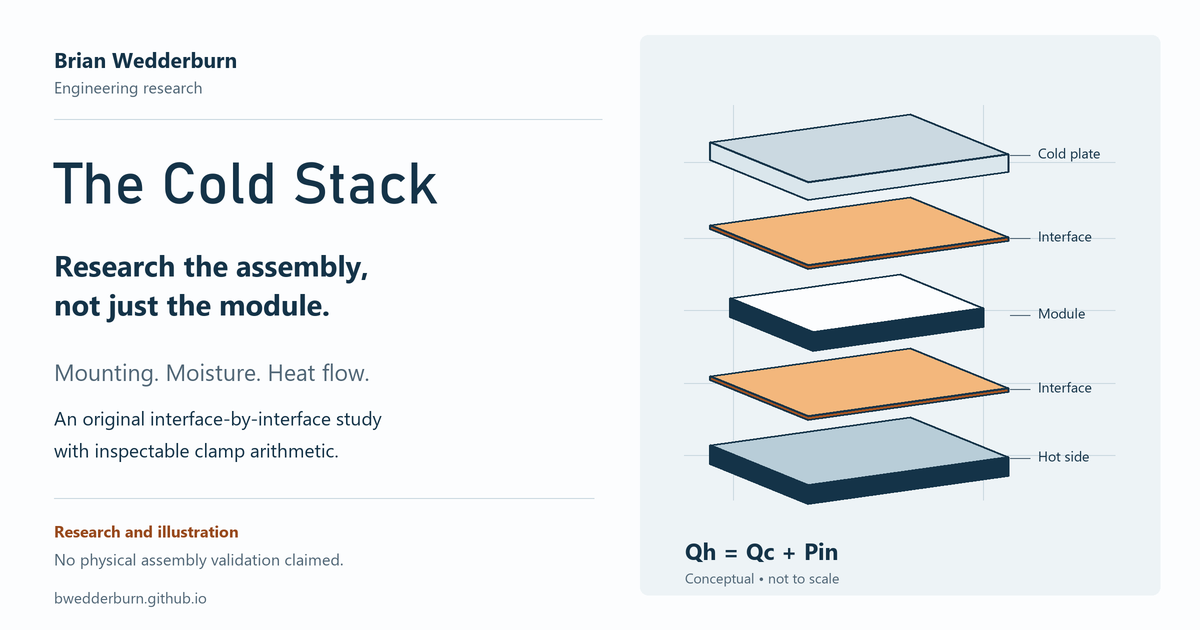
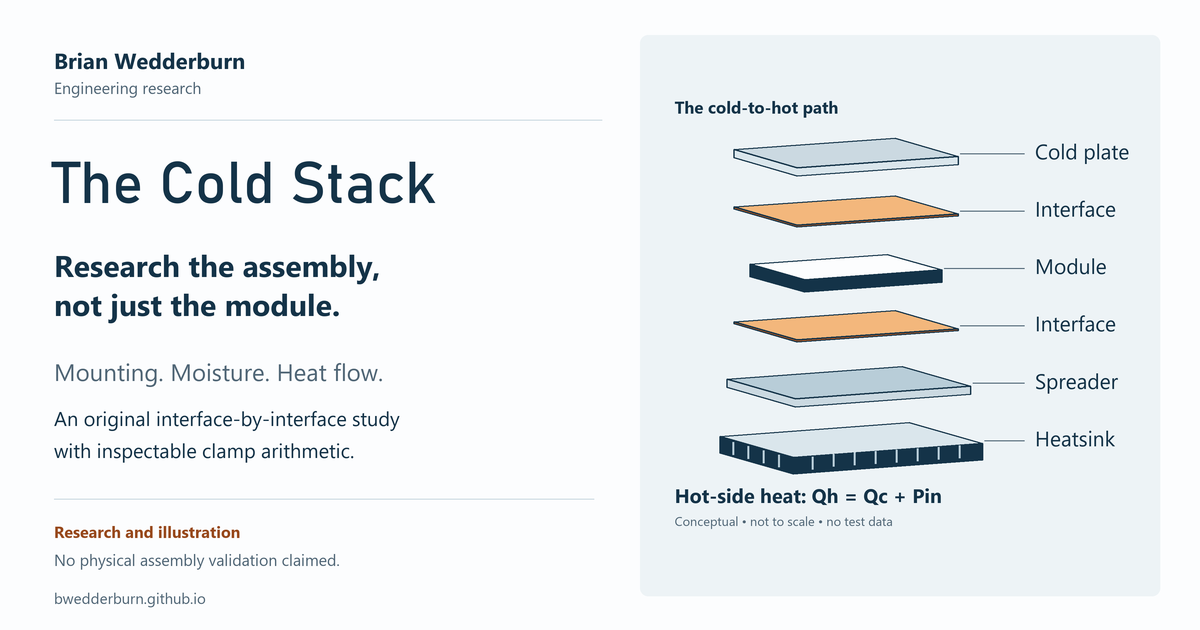
Correct Cold Stack layer geometry and paint order

diff --git a/projects/cold-stack/index.html b/projects/cold-stack/index.html
@@ -33,7 +33,7 @@
     <div class="wrap"><nav class="breadcrumbs" aria-label="Breadcrumb"><a href="../../">Portfolio</a><span aria-hidden="true">/</span><span aria-current="page">The Cold Stack</span></nav></div>
     <section class="case-hero cold-hero wrap" aria-labelledby="case-title">
       <div><p class="project-kind">The Cold Stack / Engineering research</p><h1 id="case-title">Research the assembly, not just the module.</h1><p class="lead">A Peltier module is one part of a thermal system. I’m studying the interfaces around it: how to clamp it evenly, move heat out, and control moisture without assuming a seal solves every problem.</p><div class="actions"><a class="button primary" href="#assembly">Explore the stack</a><a class="text-link" href="#sources">Read the sources</a></div><p class="research-status">Research and illustrative calculations. No assembly built or physically validated for this study.</p></div>
-      <figure class="case-figure"><picture><source media="(max-width: 1000px)" srcset="../../assets/cold-stack-mobile.svg" width="360" height="640"><img src="../../assets/cold-stack.svg" alt="Original conceptual exploded Peltier assembly showing a cold plate, two thin interfaces, a module, and a hot-side spreader; hot-side heat includes the cold load and electrical input." width="760" height="550"></picture><figcaption>Follow the heat through every interface. This drawing is conceptual and not to scale.</figcaption></figure>
+      <figure class="case-figure"><picture><source media="(max-width: 1000px)" srcset="../../assets/cold-stack-mobile.svg" width="360" height="640"><img src="../../assets/cold-stack.svg" alt="Original conceptual Peltier assembly, from top to bottom: cold plate, interface, module, interface, spreader, heatsink; hot-side heat includes the cold load and electrical input." width="760" height="640"></picture><figcaption>Follow the heat through every interface. This drawing is conceptual and not to scale.</figcaption></figure>
     </section>
     <div class="case-facts wrap"><div><span>Focus</span><strong>Mounting, moisture, and heat flow</strong></div><div><span>Method</span><strong>Source review / dimensional reasoning</strong></div><div><span>Evidence boundary</span><strong>Research, not hardware acceptance</strong></div></div>
 
@@ -41,15 +41,32 @@
 
     <section id="assembly" class="research-intro wrap" aria-labelledby="assembly-title"><p class="section-context">An interface-by-interface view</p><h2 id="assembly-title">Open the stack to see its responsibilities.</h2><p>Move the layers apart to inspect the thermal path. The drawing separates functions; it does not specify dimensions, material selection, fastener locations, or an approved assembly.</p>
       <div class="stack-explorer" data-stack-explorer>
-        <figure class="stack-drawing"><svg class="stack-desktop" data-stack-drawing data-stack-min-gap="34" viewBox="0 0 650 580" role="img" aria-labelledby="stack-title stack-desc"><title id="stack-title">Conceptual exploded thermoelectric stack</title><desc id="stack-desc">Six layers, from top to bottom: cold plate, upper thermal interface, thermoelectric module, lower thermal interface, hot-side spreader, and heat sink. A spacing control changes only the drawing.</desc><g fill="none" stroke="#cbd9e1" stroke-width="1"><path d="M30 45h590M30 535h590M80 55v465M445 55v465"/><path d="M180 55v465M360 55v465" stroke-dasharray="4 7"/></g><g font-family="Segoe UI,Arial,sans-serif" font-size="23" fill="#143348">
-          <g data-stack-layer transform="translate(0 85)"><path d="m120 0 230-30 90 34-230 30Z" fill="#cbd9e1" stroke="#143348" stroke-width="2"/><path d="m120 0 90 34 230-30v15l-230 30-90-34Z" fill="#dae6ec" stroke="#143348" stroke-width="2"/><path d="M443 8h28" stroke="#506676"/><text x="483" y="13">Cold plate</text></g>
-          <g data-stack-layer transform="translate(0 155)"><path d="m120 0 230-30 90 34-230 30Z" fill="#f3b77c" stroke="#97481b" stroke-width="2"/><path d="M443 8h28" stroke="#506676"/><text x="483" y="13">Interface</text></g>
-          <g data-stack-layer transform="translate(0 225)"><path d="m143 0 196-25 78 30-196 25Z" fill="#fcfdfe" stroke="#143348" stroke-width="2"/><path d="m143 0 78 30 196-25v20l-196 25-78-30Z" fill="#143348"/><path d="M420 8h51" stroke="#506676"/><text x="483" y="13">Module</text></g>
-          <g data-stack-layer transform="translate(0 295)"><path d="m120 0 230-30 90 34-230 30Z" fill="#f3b77c" stroke="#97481b" stroke-width="2"/><path d="M443 8h28" stroke="#506676"/><text x="483" y="13">Interface</text></g>
-          <g data-stack-layer transform="translate(0 365)"><path d="m110 0 250-33 98 37-250 33Z" fill="#b8cdd8" stroke="#143348" stroke-width="2"/><path d="m110 0 98 37 250-33v15l-250 33-98-37Z" fill="#cbd9e1" stroke="#143348" stroke-width="2"/><path d="M460 8h11" stroke="#506676"/><text x="483" y="13">Spreader</text></g>
-          <g data-stack-layer transform="translate(0 435)"><path d="m100 0 270-35 105 40-270 35Z" fill="#dae6ec" stroke="#143348" stroke-width="2"/><path d="m100 0 105 40 270-35v29l-270 35-105-40Z" fill="#143348"/><g stroke="#b8cdd8" stroke-width="3"><path d="m119 12 2 24M140 20l2 24M162 28l2 24M184 36l2 24M232 36v28M262 32v28M292 28v28M322 24v28M352 20v28M382 16v28M412 12v28M442 8v28"/></g><path d="M477 8h6" stroke="#506676"/><text x="493" y="13">Heat sink</text></g>
-        </g></svg><svg class="stack-mobile" data-stack-drawing data-stack-min-gap="34" viewBox="0 0 360 580" role="img" aria-labelledby="stack-mobile-title stack-mobile-desc"><title id="stack-mobile-title">Conceptual thermoelectric stack with large labels</title><desc id="stack-mobile-desc">Six layers, from top to bottom: cold plate, upper thermal interface, thermoelectric module, lower thermal interface, hot-side spreader, and heat sink. The separation control moves each layer and its label together; this is not a physical calculation.</desc><g font-family="Segoe UI,Arial,sans-serif" font-size="25" fill="#143348"><g data-stack-layer transform="translate(0 85)"><path d="m18 0 116-16 44 20-116 16Z" fill="#cbd9e1" stroke="#143348" stroke-width="2"/><path d="m18 0 44 20 116-16v18l-116 16-44-20Z" fill="#dae6ec" stroke="#143348" stroke-width="2"/><path d="M181 8h15" stroke="#506676" stroke-width="1.5"/><text x="205" y="15">Cold plate</text></g><g data-stack-layer transform="translate(0 157.4)"><path d="m18 0 116-16 44 20-116 16Z" fill="#f3b77c" stroke="#143348" stroke-width="2"/><path d="m18 0 44 20 116-16v4l-116 16-44-20Z" fill="#a95420" stroke="#143348" stroke-width="2"/><path d="M181 8h15" stroke="#506676" stroke-width="1.5"/><text x="205" y="15">Interface</text></g><g data-stack-layer transform="translate(0 229.8)"><path d="m18 0 116-16 44 20-116 16Z" fill="#fcfdfe" stroke="#143348" stroke-width="2"/><path d="m18 0 44 20 116-16v18l-116 16-44-20Z" fill="#143348" stroke="#143348" stroke-width="2"/><path d="M181 8h15" stroke="#506676" stroke-width="1.5"/><text x="205" y="15">Module</text></g><g data-stack-layer transform="translate(0 302.2)"><path d="m18 0 116-16 44 20-116 16Z" fill="#f3b77c" stroke="#143348" stroke-width="2"/><path d="m18 0 44 20 116-16v4l-116 16-44-20Z" fill="#a95420" stroke="#143348" stroke-width="2"/><path d="M181 8h15" stroke="#506676" stroke-width="1.5"/><text x="205" y="15">Interface</text></g><g data-stack-layer transform="translate(0 374.6)"><path d="m18 0 116-16 44 20-116 16Z" fill="#b8cdd8" stroke="#143348" stroke-width="2"/><path d="m18 0 44 20 116-16v18l-116 16-44-20Z" fill="#dae6ec" stroke="#143348" stroke-width="2"/><path d="M181 8h15" stroke="#506676" stroke-width="1.5"/><text x="205" y="15">Spreader</text></g><g data-stack-layer transform="translate(0 447)"><path d="m18 0 116-16 44 20-116 16Z" fill="#dae6ec" stroke="#143348" stroke-width="2"/><path d="m18 0 44 20 116-16v18l-116 16-44-20Z" fill="#143348" stroke="#143348" stroke-width="2"/><path d="M42 29v17M65 27v19M88 24v19M111 22v19M134 20v19M157 17v19" stroke="#b8cdd8" stroke-width="2"/><path d="M181 8h15" stroke="#506676" stroke-width="1.5"/><text x="205" y="15">Heat sink</text></g></g></svg><figcaption>A visual inspection aid. Layer spacing does not represent a temperature, force, or displacement calculation.</figcaption></figure>
-        <div class="stack-notes"><h3>Separate the jobs.</h3><p>The thermal interfaces need intimate contact. The clamp supplies load. Moisture protection addresses the environment around the cold region. These functions interact, but they are not interchangeable.</p><div class="stack-controls" hidden><label for="stack-separation">Drawing separation <output id="separation-value" for="stack-separation">80%</output></label><input id="stack-separation" type="range" min="0" max="100" value="80" step="1"><div class="stack-control-ends"><span>Compact view</span><span>Exploded view</span></div></div><p class="layer-order">Layers from top to bottom:</p><ol class="layer-key"><li><strong>Cold plate:</strong> connects the load to the module.</li><li><strong>Upper interface:</strong> connects the cold plate and module.</li><li><strong>Module:</strong> moves heat with electrical input.</li><li><strong>Lower interface:</strong> connects the module and spreader.</li><li><strong>Hot-side spreader:</strong> distributes the combined heat.</li><li><strong>Heat sink:</strong> rejects heat to the surroundings.</li></ol></div>
+        <figure class="stack-drawing"><svg class="stack-desktop" data-stack-drawing data-stack-min-gap="64" viewBox="0 0 650 580" role="img" aria-labelledby="stack-title stack-desc"><title id="stack-title">Conceptual six-layer thermoelectric stack</title><desc id="stack-desc">Six layers, from top to bottom: cold plate, upper thermal interface, thermoelectric module, lower thermal interface, hot-side spreader, and heatsink. The shallow viewing angle keeps each layer distinct. This is a conceptual drawing, not to scale.</desc><g fill="none" stroke="#cbd9e1" stroke-width="1"><path d="M30 45h590M30 555h590M80 55v490M445 55v490"/><path d="M180 55v490M360 55v490" stroke-dasharray="4 7"/></g><g font-family="Segoe UI,Arial,sans-serif" font-size="23" fill="#143348">
+<g data-stack-layer="heatsink" data-stack-level="5" transform="translate(0 477)"><path d="m100 0 270-20 105 30-270 20Z" fill="#dae6ec" stroke="#143348" stroke-width="2"/><path d="m100 0 105 30 270-20v24l-270 20-105-30Z" fill="#143348" stroke="#143348" stroke-width="2"/><path d="M119 8v18M140 14v18M162 20v18M184 26v18M232 29v18M262 25v18M292 23v18M322 21v18M352 19v18M382 17v18M412 15v18M442 13v18" fill="none" stroke="#b8cdd8" stroke-width="3"/></g>
+<g data-stack-layer="spreader" data-stack-level="4" transform="translate(0 398.6)"><path d="m110 0 250-18 98 28-250 18Z" fill="#b8cdd8" stroke="#143348" stroke-width="2"/><path d="m110 0 98 28 250-18v12l-250 18-98-28Z" fill="#cbd9e1" stroke="#143348" stroke-width="2"/></g>
+<g data-stack-layer="lower-interface" data-stack-level="3" transform="translate(0 320.2)"><path d="m120 0 230-16 90 26-230 16Z" fill="#f3b77c" stroke="#143348" stroke-width="2"/><path d="m120 0 90 26 230-16v3l-230 16-90-26Z" fill="#a95420" stroke="#143348" stroke-width="2"/></g>
+<g data-stack-layer="module" data-stack-level="2" transform="translate(0 241.8)"><path d="m143 0 196-14 78 22-196 14Z" fill="#fcfdfe" stroke="#143348" stroke-width="2"/><path d="m143 0 78 22 196-14v18l-196 14-78-22Z" fill="#143348" stroke="#143348" stroke-width="2"/></g>
+<g data-stack-layer="upper-interface" data-stack-level="1" transform="translate(0 163.4)"><path d="m120 0 230-16 90 26-230 16Z" fill="#f3b77c" stroke="#143348" stroke-width="2"/><path d="m120 0 90 26 230-16v3l-230 16-90-26Z" fill="#a95420" stroke="#143348" stroke-width="2"/></g>
+<g data-stack-layer="cold-plate" data-stack-level="0" transform="translate(0 85)"><path d="m120 0 230-16 90 26-230 16Z" fill="#cbd9e1" stroke="#143348" stroke-width="2"/><path d="m120 0 90 26 230-16v12l-230 16-90-26Z" fill="#dae6ec" stroke="#143348" stroke-width="2"/></g>
+<g data-stack-label="cold-plate" data-stack-level="0" transform="translate(0 85)"><path d="M443 6H480" fill="none" stroke="#506676" stroke-width="1.5"/><text x="493" y="14">Cold plate</text></g>
+<g data-stack-label="upper-interface" data-stack-level="1" transform="translate(0 163.4)"><path d="M443 6H480" fill="none" stroke="#506676" stroke-width="1.5"/><text x="493" y="14">Interface</text></g>
+<g data-stack-label="module" data-stack-level="2" transform="translate(0 241.8)"><path d="M420 6H480" fill="none" stroke="#506676" stroke-width="1.5"/><text x="493" y="14">Module</text></g>
+<g data-stack-label="lower-interface" data-stack-level="3" transform="translate(0 320.2)"><path d="M443 6H480" fill="none" stroke="#506676" stroke-width="1.5"/><text x="493" y="14">Interface</text></g>
+<g data-stack-label="spreader" data-stack-level="4" transform="translate(0 398.6)"><path d="M461 6H480" fill="none" stroke="#506676" stroke-width="1.5"/><text x="493" y="14">Spreader</text></g>
+<g data-stack-label="heatsink" data-stack-level="5" transform="translate(0 477)"><path d="M478 6H480" fill="none" stroke="#506676" stroke-width="1.5"/><text x="493" y="14">Heatsink</text></g></g></svg><svg class="stack-mobile" data-stack-drawing data-stack-min-gap="46" viewBox="0 0 360 580" role="img" aria-labelledby="stack-mobile-title stack-mobile-desc"><title id="stack-mobile-title">Conceptual six-layer thermoelectric stack</title><desc id="stack-mobile-desc">Six layers, from top to bottom: cold plate, upper thermal interface, thermoelectric module, lower thermal interface, hot-side spreader, and heatsink. The shallow viewing angle keeps each layer distinct. This is a conceptual drawing, not to scale.</desc><g font-family="Segoe UI,Arial,sans-serif" font-size="25" fill="#143348">
+<g data-stack-layer="heatsink" data-stack-level="5" transform="translate(0 459)"><path d="m18 0 116-8 44 12-116 8Z" fill="#dae6ec" stroke="#143348" stroke-width="2"/><path d="m18 0 44 12 116-8v24l-116 8-44-12Z" fill="#143348" stroke="#143348" stroke-width="2"/><path d="M38 8v18M61 14v18M84 12v18M107 10v18M130 8v18M153 6v18" fill="none" stroke="#b8cdd8" stroke-width="2"/></g>
+<g data-stack-layer="spreader" data-stack-level="4" transform="translate(0 384.2)"><path d="m18 0 116-8 44 12-116 8Z" fill="#b8cdd8" stroke="#143348" stroke-width="2"/><path d="m18 0 44 12 116-8v12l-116 8-44-12Z" fill="#cbd9e1" stroke="#143348" stroke-width="2"/></g>
+<g data-stack-layer="lower-interface" data-stack-level="3" transform="translate(0 309.4)"><path d="m18 0 116-8 44 12-116 8Z" fill="#f3b77c" stroke="#143348" stroke-width="2"/><path d="m18 0 44 12 116-8v3l-116 8-44-12Z" fill="#a95420" stroke="#143348" stroke-width="2"/></g>
+<g data-stack-layer="module" data-stack-level="2" transform="translate(0 234.6)"><path d="m18 0 116-8 44 12-116 8Z" fill="#fcfdfe" stroke="#143348" stroke-width="2"/><path d="m18 0 44 12 116-8v16l-116 8-44-12Z" fill="#143348" stroke="#143348" stroke-width="2"/></g>
+<g data-stack-layer="upper-interface" data-stack-level="1" transform="translate(0 159.8)"><path d="m18 0 116-8 44 12-116 8Z" fill="#f3b77c" stroke="#143348" stroke-width="2"/><path d="m18 0 44 12 116-8v3l-116 8-44-12Z" fill="#a95420" stroke="#143348" stroke-width="2"/></g>
+<g data-stack-layer="cold-plate" data-stack-level="0" transform="translate(0 85)"><path d="m18 0 116-8 44 12-116 8Z" fill="#cbd9e1" stroke="#143348" stroke-width="2"/><path d="m18 0 44 12 116-8v10l-116 8-44-12Z" fill="#dae6ec" stroke="#143348" stroke-width="2"/></g>
+<g data-stack-label="cold-plate" data-stack-level="0" transform="translate(0 85)"><path d="M181 6h15" fill="none" stroke="#506676" stroke-width="1.5"/><text x="205" y="14">Cold plate</text></g>
+<g data-stack-label="upper-interface" data-stack-level="1" transform="translate(0 159.8)"><path d="M181 6h15" fill="none" stroke="#506676" stroke-width="1.5"/><text x="205" y="14">Interface</text></g>
+<g data-stack-label="module" data-stack-level="2" transform="translate(0 234.6)"><path d="M181 6h15" fill="none" stroke="#506676" stroke-width="1.5"/><text x="205" y="14">Module</text></g>
+<g data-stack-label="lower-interface" data-stack-level="3" transform="translate(0 309.4)"><path d="M181 6h15" fill="none" stroke="#506676" stroke-width="1.5"/><text x="205" y="14">Interface</text></g>
+<g data-stack-label="spreader" data-stack-level="4" transform="translate(0 384.2)"><path d="M181 6h15" fill="none" stroke="#506676" stroke-width="1.5"/><text x="205" y="14">Spreader</text></g>
+<g data-stack-label="heatsink" data-stack-level="5" transform="translate(0 459)"><path d="M181 6h15" fill="none" stroke="#506676" stroke-width="1.5"/><text x="205" y="14">Heatsink</text></g></g></svg><figcaption>Top to bottom: cold plate, interface, module, interface, spreader, heatsink. A visual inspection aid; spacing does not represent a temperature, force, or displacement calculation.</figcaption></figure>
+        <div class="stack-notes"><h3>Separate the jobs.</h3><p>The thermal interfaces need intimate contact. The clamp supplies load. Moisture protection addresses the environment around the cold region. These functions interact, but they are not interchangeable.</p><div class="stack-controls" hidden><label for="stack-separation">Drawing separation <output id="separation-value" for="stack-separation">80%</output></label><input id="stack-separation" type="range" min="0" max="100" value="80" step="1"><div class="stack-control-ends"><span>Compact view</span><span>Exploded view</span></div></div><p class="layer-order">Layers from top to bottom:</p><ol class="layer-key"><li><strong>Cold plate:</strong> connects the load to the module.</li><li><strong>Upper interface:</strong> connects the cold plate and module.</li><li><strong>Module:</strong> moves heat with electrical input.</li><li><strong>Lower interface:</strong> connects the module and spreader.</li><li><strong>Hot-side spreader:</strong> distributes the combined heat.</li><li><strong>Heatsink:</strong> rejects heat to the surroundings.</li></ol></div>
       </div>
     </section>
 
